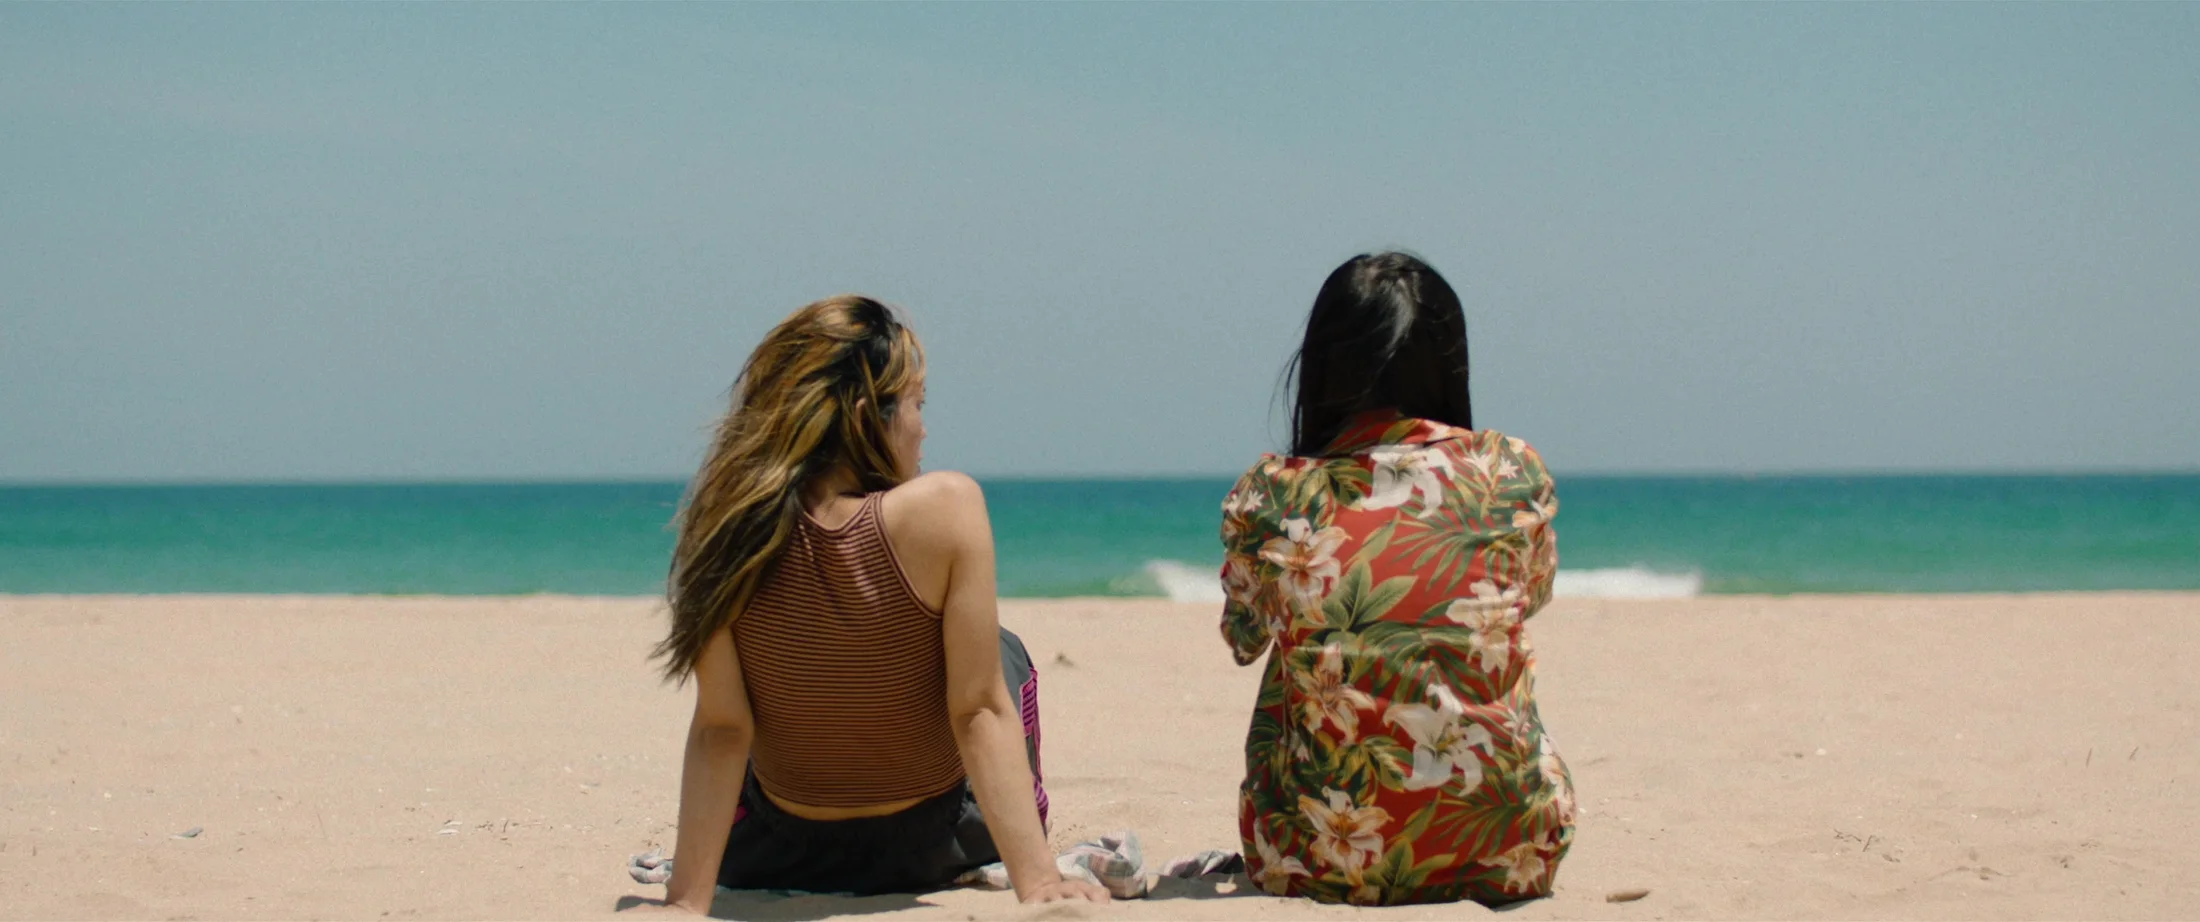
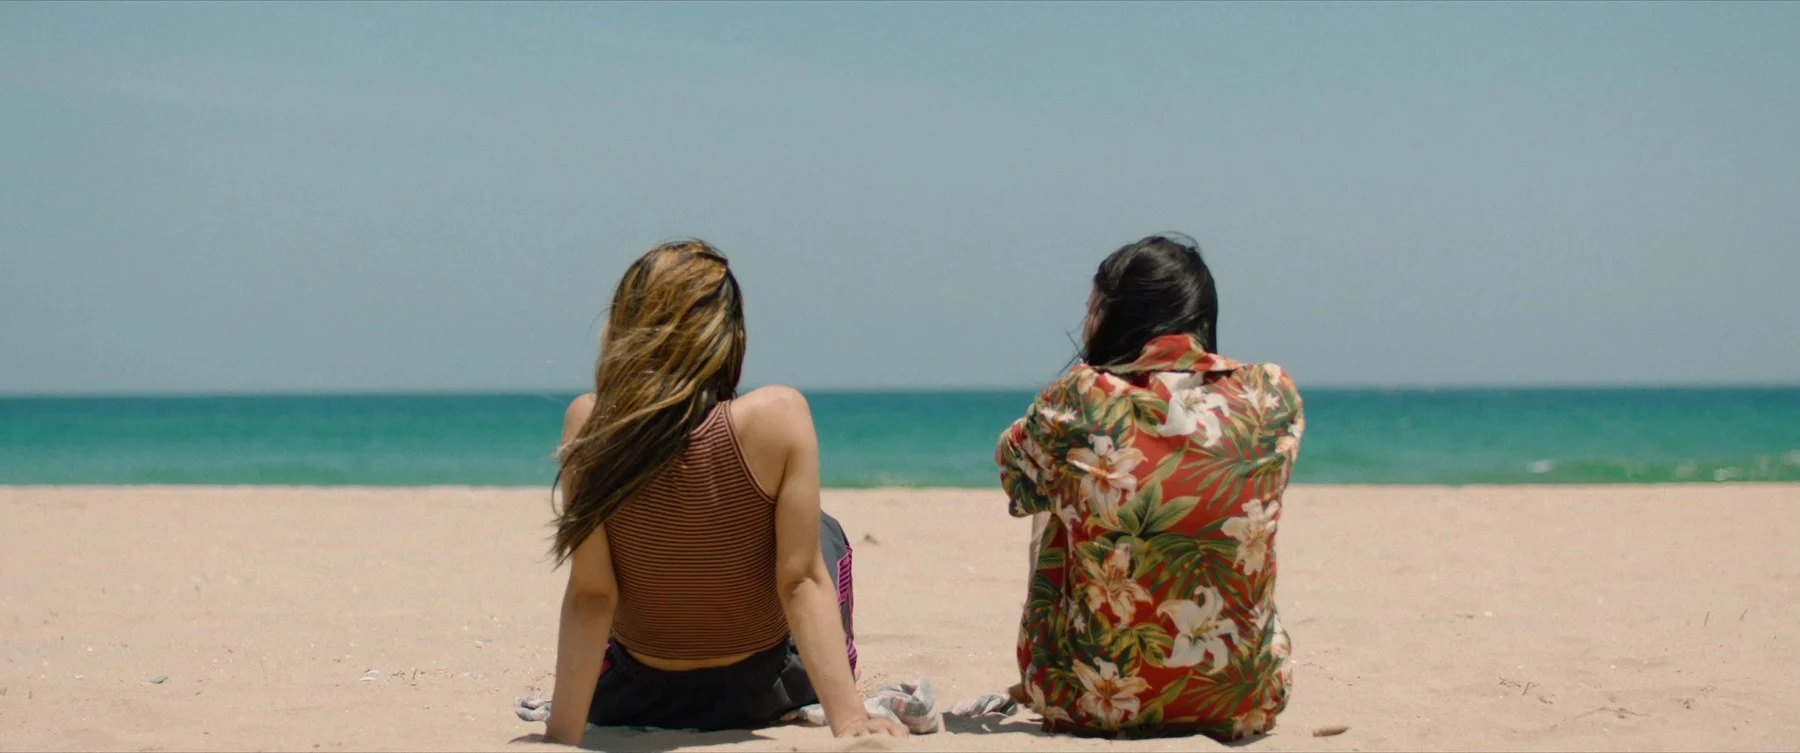
트로픽 스틸 재정리본 반영
Claude-Session: https://claude.ai/code/session_01YYRb2KB3eF6Q3RKez6YmkW

diff --git a/index.html b/index.html
@@ -2285,6 +2285,8 @@ Object.assign(MEDIA.f5,{"s":[2.387],"x":[[0,0,1800,754],[0,754,1800,754],[0,1508
 /* 시적허용 BTS: 미러리스 지운 버전 반영 */
 Object.assign(MEDIA.f4,{"b": [[0, 0, 1200, 900], [1200, 0, 675, 900], [1875, 0, 675, 900], [2550, 0, 675, 900], [3225, 0, 675, 900], [0, 900, 675, 900], [675, 900, 506, 900], [1181, 900, 506, 900], [1687, 900, 549, 900], [2236, 900, 1599, 900], [0, 1800, 1200, 900], [1200, 1800, 1599, 900], [2799, 1800, 1200, 900], [0, 2700, 1200, 900], [1200, 2700, 675, 900], [1875, 2700, 1200, 900], [0, 3600, 1600, 900]], "bs": [3999, 4500], "bshow": 12});
 
+/* 트로픽 스틸: 보정본 재정리본 */
+Object.assign(MEDIA.f7,{"s":[2.39],"x":[[0,0,1800,753],[0,753,1800,753],[0,1506,1800,753],[0,2259,1800,753],[0,3012,1800,753],[0,3765,1800,753],[0,4518,1800,753],[0,5271,1800,753],[0,6024,1800,753],[0,6777,1800,753],[0,7530,1800,753],[0,8283,1800,753],[0,9036,1800,753],[0,9789,1800,753],[0,10542,1800,753],[0,11295,1800,753],[0,12048,1800,753],[0,12801,1800,753],[0,13554,1800,753],[0,14307,1800,753],[1800,0,1800,753],[1800,753,1800,752],[1800,1505,1800,753],[1800,2258,1800,753],[1800,3011,1800,753],[1800,3764,1800,428],[1800,4192,1800,753],[1800,4945,1800,753],[1800,5698,1800,753],[1800,6451,1800,754],[1800,7205,1800,753],[1800,7958,1800,753],[1800,8711,1800,753],[1800,9464,1800,753],[1800,10217,1800,753],[1800,10970,1800,753],[1800,11723,1800,753],[1800,12476,1800,753],[1800,13229,1800,753],[1800,13982,1800,751],[1800,14733,1800,753],[3600,0,1800,753],[3600,753,1800,708],[3600,1461,1800,753],[3600,2214,1800,752],[3600,2966,1800,753],[3600,3719,1800,753],[3600,4472,1800,753],[3600,5225,1800,699],[3600,5924,1800,753],[3600,6677,1800,753],[3600,7430,1800,753],[3600,8183,1800,636],[3600,8819,1800,753],[3600,9572,1800,753],[3600,10325,1800,753],[3600,11078,1800,753],[3600,11831,1800,753],[3600,12584,1800,753],[3600,13337,1800,753],[3600,14090,1800,753],[5400,0,1800,753],[5400,753,1800,754]],"xs":[7200,15486]});GOOD.f7=[0];
 /* 영화제·수상·제작지원 (원본 사이트 + 기존 기록 통합): [구분, 연도, 국문, 영문] */
 const FEST={
 0:[["Competition","2026","제30회 부천국제판타스틱영화제 · 부천 초이스 코리안 장편 공식 경쟁","30th Bucheon International Fantastic Film Festival (BIFAN) — Bucheon Choice: Korean Features"],
